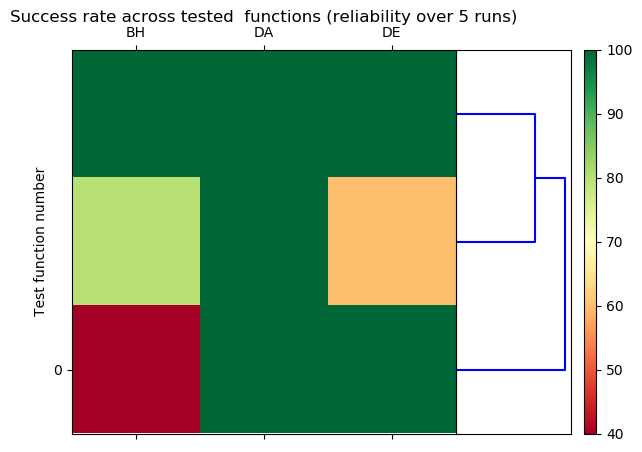
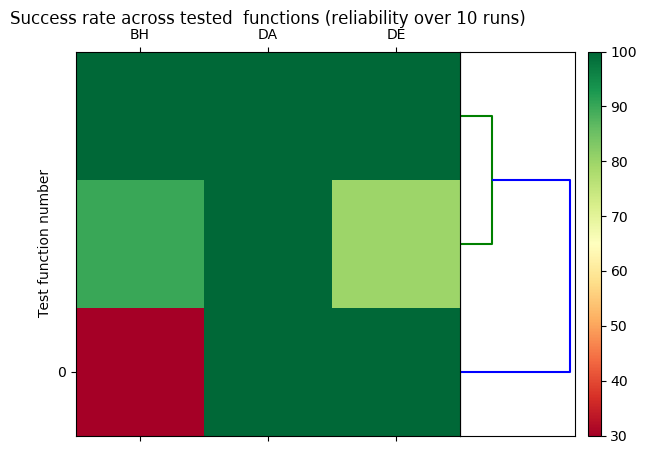
Rerun example for 10 runs and update results

Changed region(s): [[0.0, 0.0, 0.9969, 0.9912], [0.6854, 0.9292, 0.7165, 0.9602]]

diff --git a/gobench/workflow.py b/gobench/workflow.py
@@ -79,7 +79,8 @@ def run_bench():
         'PSO-R' for particule swarm restart version
         'BF' for for brute force
         'CMA' for Cov. matrix adaptation evolution strategy
-        'CMA-R' for Cov. matrix adaptation evolution strategy restart version
+        'CMA-R' for Cov. matrix adaptation evolution strategy restart version.
+        If not provided, all of these methods are benchmarked.
         ''')
     args = parser.parse_args()
     nb_runs = args.nb_runs

diff --git a/README.md b/README.md
@@ -39,7 +39,8 @@ In order to run the benchmark only on few functions and few methods (will use
 the cores available on your machine), run the example below:
 
 ```bash
-gobench --nb-runs 5 --methods 'BH,DE,DA' --function 'Ackley01,Rosenbrock,Rastrigin'
+# It takes approx 8 minutes on 2 cores.
+gobench --nb-runs 10 --methods 'BH,DE,DA' --function 'Ackley01,Rosenbrock,Rastrigin'
 ```
 
 ```bash
@@ -84,7 +85,8 @@ optional arguments:
         'PSO-R' for particule swarm restart version
         'BF' for for brute force
         'CMA' for Cov. matrix adaptation evolution strategy
-        'CMA-R' for Cov. matrix adaptation evolution strategy restart version
+        'CMA-R' for Cov. matrix adaptation evolution strategy restart version.
+        If not provided, all of these methods are benchmarked.
 ```
 
 
@@ -129,19 +131,18 @@ goreport --type csv --out results.csv
 ```
 
 will produce a csv file that looks like:
-(10 runs)
 
 | Function name | Algorithm | Success rate | Best | Average | Worst |     Std     | fvalue (mean) | Mean time (ms) | Median |
 | ------------- |:---------:|:------------:|:----:|:-------:|:-----:|:-----------:|:-------------:|:--------------:|:------:|
-| Ackley01      | BH        |  40.0 %      | 4447 | 4739.5  | 5032  | (+/-) 292.5 | 1.6E-07       | 171.42         |1000000 |
-| Ackley01      | DA        | 100.0 %      |  174 |  415    |  633  | (+/-) 196.09| 5.6E-07       |  50.26         |    389 |
-| Ackley01      | DE        | 100.0 %      | 1149 | 1281.4  | 1363  | (+/-) 88.88 | 5E-07         | 147.53         |   1336 |
-| Rastrigin     | BH        |  80.0 %      | 5221 | 14215   | 32611 | (+/-) 11171 | 0             | 375.61         | 13738  |
-| Rastrigin     | DA        | 100.0 %      | 55   | 365.4   | 780   | (+/-) 250.4 | 0             | 50.28          | 290    |
-| Rastrigin     | DE        |  60.0 %      | 984  | 987     | 989   | (+/-) 2.16  | 3.6E-07       | 104.87         | 989    |
-| Rosenbrock    | BH        | 100.0 %      | 172  | 225.4   | 286   | (+/-) 43.9  | 0             | 13.95          | 229    |
-| Rosenbrock    | DA        | 100.0 %      | 141  | 229.8   | 288   | (+/-) 48.58 | 0             | 12.25          | 234    |
-| Rosenbrock    | DA        | 100.0 %      | 739  | 1151.4  | 1467  | (+/-) 268.5 | 1.3E-07       | 117.127        | 1074   |
+| Ackley01      | BH        |  30.0 %      | 2220 | 3893    | 5032  | (+/-) 1220.7| 1.6E-07       | 103.61         |1000000 |
+| Ackley01      | DA        | 100.0 %      |  174 |  376.3  |  633  | (+/-) 155.63| 1.3E-07       |  19.13         |    380 |
+| Ackley01      | DE        | 100.0 %      | 1195 | 1308.4  | 1458  | (+/-) 82.74 | 3.3E-07       | 73.85          |   1278 |
+| Rastrigin     | BH        |  90.0 %      | 2467 | 16705   | 49330 | (+/-) 14913 | 0             | 324.25         | 12979  |
+| Rastrigin     | DA        | 100.0 %      | 55   | 294.2   | 780   | (+/-) 203.5 | 0             | 16.42          | 211    |
+| Rastrigin     | DE        |  80.0 %      | 775  | 947.6   | 1150  | (+/-) 128.46| 1.E-07        | 43.76          | 956.5  |
+| Rosenbrock    | BH        | 100.0 %      | 82   | 187.3   | 286   | (+/-) 64.26 | 0             | 3.86           | 176.5  |
+| Rosenbrock    | DA        | 100.0 %      | 141  | 229.8   | 288   | (+/-) 48.58 | 0             | 4.48           | 226.5  |
+| Rosenbrock    | DA        | 100.0 %      | 858  | 1117.9  | 1332  | (+/-) 136.7 | 2.E-07        | 56.75          | 1150   |
 
 
 
